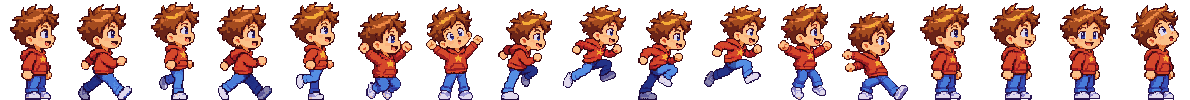
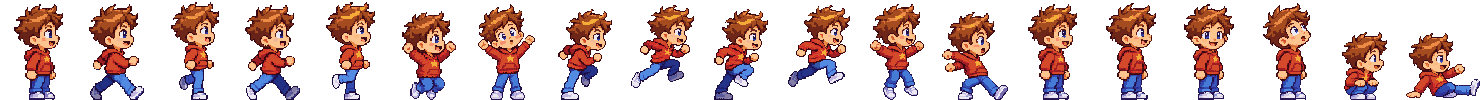
Barnspelet: tid och bästa tid vid målet, fiender/knappar i räkningen, ducka och glida, bakgrunden högst upp

diff --git a/tools/barnspelet-bilder.py b/tools/barnspelet-bilder.py
@@ -199,6 +199,7 @@ def figur():
     run = Drawing("pojken-spring-prov.png")   # push, flight, push, flight – near leg always in front
     fall = Drawing("pojken-fall-prov.png")    # fall, bromsa
     idle = Drawing("pojken-idle-prov.png")    # stå, andas in, tittar på oss, tittar upp (fötterna stilla)
+    duck = Drawing("pojken-duck-prov.png")    # ducka, glida (huvudet lika stort som när han står → 68 px hög)
     s = std.scale_for(0, 96)
     pass_h = round((walk.boxes[1][3] - walk.boxes[1][1]) / s)
     s_far, s_near = pass_far.scale_for(0, pass_h), pass_near.scale_for(0, pass_h)
@@ -206,16 +207,18 @@ def figur():
     s_run = s * ((run.boxes[0][3] - run.boxes[0][1]) / (walk.boxes[0][3] - walk.boxes[0][1])) ** 0  # same canvas as the walk
     s_fall = fall.scale_for(0, 96)
     s_idle = idle.scale_for(0, 96)
+    duck.common_ground()
+    s_duck = duck.scale_for(0, 68)
     for d, k in ((std, s), (walk, s), (pass_far, s_far), (pass_near, s_near), (oj, s_oj), (run, s_run), (fall, s_fall),
-                 (idle, s_idle)):
+                 (idle, s_idle), (duck, s_duck)):
         d.peel(k)
     run.common_ground()
     idle.common_ground()
     cuts = [std.cut(0, s), walk.cut(0, s), pass_far.cut(0, s_far), walk.cut(2, s), pass_near.cut(0, s_near),
             std.cut(3, s), oj.cut(0, s_oj)] + [run.cut(i, s_run) for i in range(4)] + [fall.cut(0, s_fall), fall.cut(1, s_fall)] + \
-        [idle.cut(i, s_idle) for i in range(4)]
+        [idle.cut(i, s_idle) for i in range(4)] + [duck.cut(0, s_duck), duck.cut(1, s_duck)]
     names = ["sta", "kliv1", "mellan1", "kliv2", "mellan2", "hopp", "oj", "spring1", "spring2", "spring3", "spring4",
-             "fall", "bromsa", "idle1", "idle2", "idle3", "idle4"]
+             "fall", "bromsa", "idle1", "idle2", "idle3", "idle4", "duck", "glid"]
     cells, size = sheet("pojken", cuts, names)
     # The far leg darker – walk: kliv1, mellan1, kliv2; run (15 Nov: Codex drew the alternation right, but its
     # dark blue was too close to the light one, the user saw "the same leg up every time"): push 1 and flight 1 =
@@ -273,11 +276,22 @@ def bakgrund(nr="1"):
     px = list(get())
     tw, th = 480, 300
     out = pa.cells(w, h, px, (0, 0, w, h), tw, th, False)
+    # Gula prickar i nedre delen (Kakans blommor i markhöjd) såg ut som saker att plocka – "halva bananer"
+    # (användaren 15 nov): målas över med närmaste icke-gula granne till vänster
+    gul = lambda c: c and c[0] > 170 and c[1] > 140 and c[2] < 120 and c[0] - c[2] > 90
+    for y in range(int(th * 0.55), th):
+        for x in range(tw):
+            if gul(out[y * tw + x]):
+                for d in range(1, 12):
+                    n = out[y * tw + max(0, x - d)]
+                    if not gul(n):
+                        out[y * tw + x] = n
+                        break
     pal = pa.median_cut(sorted({c[:3] for c in out if c}), 48)
     memo = {}
     # TOPP extra rader överst = de översta raderna spegelvända uppåt: kameran går upp i höga hopp, och
     # bakgrunden ligger lågt (blomraden bakom marken) – annars syntes en ljus rand överst (användaren 15 nov)
-    top = 40
+    top = 0  # 0: spegelvänt uppåt såg konstigt ut (användaren) – hela bilden ligger högre i stället
     img = Image.new("RGBA", (tw * 2, th + top))
     for y in range(th):
         for x in range(tw):

diff --git a/docs/anteckningar.md b/docs/anteckningar.md
@@ -1028,6 +1028,7 @@ Användaren: högra sidan av klockrutan var tom (headset med sladd → inget hea
 - **Bana 1 djungeln – grov version byggd (15 nov):** `banor/1.txt` + `1.json` (`mark`, `bakgrund`, `gossedjur`), 130 rutor: start, ormar + liten grop, palmer med kokosnötter + gren, papegojor över grenar + flaggan, två vattengropar (3 rutor) med krokodiler, blandat + hjärta, bossrummet (bananbuske, tre bananer, orangutangen, buren). Nya tecken i banfilen: `W` vatten, `c` krokodil, `s` orm, `p` papegoja, `o` palm/kokosnöt, `b` banan, `u` bananbuske, `O` boss. Skript: `gangare.gd` (racerbil + orm, `TYPER`), `papegoja.gd` (±3 rutor, våg 26 px, trampbar), `krokodil.gd` (under ytan, hoppar 980 var 1,4–2,4 s, inte trampbar, z bakom vattenlagret z 8), `kokos.gd` (skakar 0,6 s inom 120 px, faller, spricker), `orangutang.gd` (hungrig 1,6 s ↔ gapar 1,8 s, `mun()` = hela huvudet framifrån när den gapar – första versionen var för smal, bananen studsade på kroppen; `MATT` 3 → sover; kroppen går inte att gå igenom medan den är vaken; buren låst tills den sover). Bananer: `Spel.bananer`, B kastar (430/−420, tyngd 1400), bananbusken lägger en ny var 3:e s om man har noll och ingen ligger framme. HUD: bananer som bilder. Bilder: `tools/barnspelet-bilder.py bakgrund|djungel|orangutang` (`Drawing(grid="delar")` = sammanhängande bitar, `join` håller ihop en sprucken kokosnöt); bakgrunden = Kakans nr 1, mitten utan ram/egen mark, 480×300 ×2, spegelvänd (spegelfogen syns lite). **Prov:** `-- --prov-djungel` (8: fienderna finns, oj i vattnet, krokodilen hoppar, kokosnöten faller, trampa papegojan, buren låst, 3 bananer → sover, buren öppen) + provbanan (`-- --prov`, banan heter nu `prov`); `-- --bana 1 --bild <fil> <s> --fran <ruta> --stilla` = skärmbild var som helst. Starta djungeln: `-- --bana 1` (standard). **Inte provat:** spelat med kontrollen.
 - **Djungeln efter användarens första spel (15 nov):** "bakgrunden topnotch, fienderna funkar mycket bra, perfekt svårighetsgrad". Lagat: första ormen bort (lär dig kontrollen först, knappar i luften i stället); **allt svävade** – gräset sitter i rutans rad 5–20, figurerna stod på rutans överkant = grästopparna → två TileMapLayer: det man står på (osynligt, på rutnätet) och det som syns (`MARK_UPP` 12 px högre, `collision_enabled = false`, en extra rad under så att marken når nederkanten); första försöket flyttade hela lagret och därmed krocken också (provet "står på marken" fångade det). **Vattnet** låg i grästopparnas höjd → `VATTEN_NER` 20 px (vattenlagret, krokodilens yta, oj-kollen). Kakans bakgrund 200 px ner (blomraden i markhöjd såg ut som saker att plocka, "halva bananer"). Helskärm (`window/size/mode=3`) – i fönster blev det bara ×1. Kvar i bakgrunden: röda hjärtformade frukter i lianerna som liknar hjärtat (ett liv).
 - **Redigeraren (15 nov, användaren: "jag vill ha realtids editering … jag startar editering och lägger in fienderna och plattformar"):** `redigerare.gd`. Arbetsgången: Claude + användaren gör bilderna och temat per bana, användaren bygger banan själv. **E** i spelet → redigeraren (eller `-- --redigera`): pojken/fienderna står still, rutnät, röd linje = banans slut, meny längst ner med bilderna (`VERKTYG`: mark, gren, vatten, knapp, hjärta, racerbil, orm, papegoja, krokodil, palm, banan, bananbuske, boss, flagga, bur, start; 1–9/0 väljer). Vänster = lägg ut (dra = måla), höger = ta bort, Ctrl+Z ångra (200 steg, `Spel.red_historik`), A/D/pilar/hjulet flyttar (Shift fortare). **E** = spela härifrån (`Spel.test_start`, marken i kolumnen mitt i bild), **Enter** = från början. Varje ändring skrivs direkt i `banor/<namn>.txt` (`bana.fil()` = globalize_path – fungerar när spelet körs från projektmappen, inte i en exporterad version) och scenen laddas om (samma bygge som spelet); start och boss finns bara en gång; banan växer åt höger, tomma kolumner sist tas bort (minst 20). Ny bana: `-- --bana <namn>` som inte finns → mark + start. Krokodil och start ritas som halvgenomskinliga bilder (syns annars inte). **Prov** `-- --prov-red` (6: ny bana, orm sparas och syns, banan växer, en start, ångra, pojken still) – tillfällig bana som tas bort. Skärmbild sedd. **Inte provat:** användaren med musen. Bakgrunden: 40 rader extra överst (översta raderna spegelvända uppåt) – i höga hopp syntes en ljus rand.
+- **Tid, räkning, ducka/glida (15 nov, användaren: "en timer … man ska inte kunna förlora på grund av tid … Speedruns incoming!", "hur många fiender man dödat 8/8 och knappar 10/12", "duck och slidefunktion"):** `Spel.tid` räknas i `bana._physics_process` (inte i redigeraren, inte efter målet), går vidare genom dödsfall (scenen laddas om), nollas av `Spel.ny_runda()` (Enter i redigeraren, slut på liv, efter målet, "spela härifrån" = `tid_giltig` false → grå, inget rekord). Bästa tid per bana: `user://basta-tider.json` (`spara_tid`/`basta_tid`). Vid målet: tiden stort (guld + pixelkrona `_krona()` vid rekord – ritad i koden, tecknet ♛ kanske saknas i typsnittet), bästa tiden under, sedan [orm-bild] utslagna/alla trampbara och [knapp] plockade/alla – i sista försöket (guld när allt). **T** = tidtagare uppe till höger medan man spelar. Siffror är okej trots "ingen text" (för den vuxne). Ducka/glida i `pojke.gd`: ner på marken = `ducker` (står still, `LAG` 50 px hög krockruta, reser sig bara om det finns plats – `_plats_att_sta`), ner i ≥ 200 px/s = `glider` (`GLID_BROMS` 420, högst 0,75 s, slår ut `gangare` – ormar/bilar, räknas som utslagna), hopp går ur båda. Bilder `duck`/`glid` (68 px, huvudet lika stort som stående). Prov: 4 nya i `--prov` (ducka låg+still, reser sig, glida, glidning slår ut bilen). Bakgrunden: spegelvänt uppåt såg konstigt ut (användaren) → hela bilden högst upp (y 0, kameran går aldrig högre); gula prickar i nedre 45 % målas över i verktyget (en gulgrön finns kvar).
 - **Ordningen (15 nov, användaren):** banorna först, sedan kartan runt dem, sedan barnläget. **Bana 1 djungel – bossen:** en leksaks-orangutang som man kastar bananer till tills den blir mätt och somnar. Egna fiender per tema. **Djungelns fiender (valda 15 nov):** leksaksorm (ringlar på marken, hoppa över/trampa), plyschpapegoja (flyger i vågor), krokodil som hoppar upp ur vattengropar, kokosnötter som ramlar från palmer (fara, skakar först). Uppdragbar apa med cymbaler valdes inte. Bananerna ligger framme när man kommer till bossen, kastas med **B**; träff i munnen = mättare (syns som bild: magen, trötta ögon), 3–5 bananer → gäspar och somnar → buren öppnas. Gossedjuret i djungeln = Björnen.
 - **Arbetssättet för banorna (15 nov, användaren):** användaren planerar och säger hur banorna ska vara, Claude föreslår och kodar.
 - **De tio banorna (15 nov, användaren):** 1 djungel, 2 snö, 3 sand, 4 vatten, 5 lava, 6 moln, 7 rymd, 8 spökhus, 9 mörk skog, 10 slott. Kakan gör bakgrunder efter temat. Varje bana har en slutboss som följer temat och som barn känner igen. Några generiska fiender som finns på alla banor (racerbilen är den första). Provbanan 1-1 (trädgård) är bara för känslan i steg 1. **Bestämt 15 nov (ändrat samma kväll):** *en* värld med tio banor = de tio temana; världskartan har en stig som leder till en del av kartan i varje banas tema. Varje bana har en slutboss som man måste klura ut hur man besegrar; bana 10 (slottet) = den stora slutbossen (actionfiguren med cape). **Arbetsgången:** Claude bygger banorna i grova drag (känslan/vibben) → användaren spelar och planerar vad som ska finnas → Claude föreslår och kodar.
